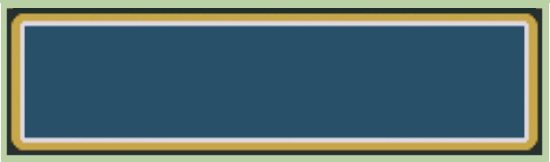
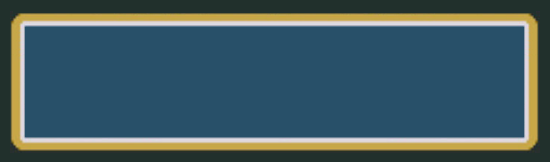
Add player sprint, fix fights with Garry and modify fight interaction background

Changed region(s): [[0.0, 0.0, 1.0, 1.0]]

diff --git a/icmon/src/main/java/ch/epfl/cs107/icmon/graphics/ICMonFightTextGraphics.java b/icmon/src/main/java/ch/epfl/cs107/icmon/graphics/ICMonFightTextGraphics.java
@@ -24,7 +24,7 @@ public final class ICMonFightTextGraphics extends ICMonFightInteractionGraphics 
         super(scaleFactor);
         // HR : Prepare the lines
         lines = new GraphicsEntity[2];
-        lines[0] = new GraphicsEntity(new Vector(1.5f, scaleFactor / 3 - 2f * FONT_SIZE), new TextGraphics("", FONT_SIZE, Color.WHITE, null, 0.0f, false, false, Vector.ZERO, TextAlign.Horizontal.LEFT, TextAlign.Vertical.MIDDLE,  1.0f, 1003));
+        lines[0] = new GraphicsEntity(new Vector(1.5f, scaleFactor / 3 - 2f * FONT_SIZE), new TextGraphics("", FONT_SIZE, Color.WHITE, null, 0.0f, false, false, Vector.ZERO, TextAlign.Horizontal.LEFT, TextAlign.Vertical.MIDDLE, 1.0f, 1003));
         lines[1] = new GraphicsEntity(new Vector(1.5f, scaleFactor / 3 - 4f * FONT_SIZE), new TextGraphics("", FONT_SIZE, Color.WHITE, null, 0.0f, false, false, Vector.ZERO, TextAlign.Horizontal.LEFT, TextAlign.Vertical.MIDDLE, 1.0f, 1003));
         // HR : Fill the placeholders with the actual text
         textInPlaceholders(text);
@@ -42,35 +42,34 @@ public final class ICMonFightTextGraphics extends ICMonFightInteractionGraphics 
     // ==================================== UTILITY FUNCTIONS =====================================
     // ============================================================================================
 
-    private void textInPlaceholders(String text){
-        if(text == null)
+    private void textInPlaceholders(String text) {
+        if (text == null)
             text = "";
         var cursor = 0;
-        var lengthToPush = text.length()-cursor;
+        var lengthToPush = text.length() - cursor;
         // For each line
-        for(int i = 0; i<2; i++){
+        for (int i = 0; i < 2; i++) {
             // If some text still need to be pushed : fill the next line
-            if(lengthToPush <= 0)
-                ((TextGraphics)lines[i].getGraphics()).setText("");
-            else if(lengthToPush <= MAX_LINE_SIZE) {
-                ((TextGraphics)lines[i].getGraphics()).setText(text.substring(cursor));
+            if (lengthToPush <= 0)
+                ((TextGraphics) lines[i].getGraphics()).setText("");
+            else if (lengthToPush <= MAX_LINE_SIZE) {
+                ((TextGraphics) lines[i].getGraphics()).setText(text.substring(cursor));
                 cursor += lengthToPush;
-            }
-            else{
+            } else {
                 var maxSize = MAX_LINE_SIZE;
                 var toConcat = "";
-                if(i == 1){
+                if (i == 1) {
                     maxSize -= 4;
                     toConcat += " ...";
                 }
-                var sub = text.substring(cursor, cursor+maxSize+1);
+                var sub = text.substring(cursor, cursor + maxSize + 1);
                 var last = sub.lastIndexOf(' ');
-                if(last == -1)
+                if (last == -1)
                     System.out.println("Error: You get a Word longer than " + MAX_LINE_SIZE);
-                ((TextGraphics)lines[i].getGraphics()).setText(sub.substring(0, last)+toConcat);
-                cursor = cursor+last+1;
+                ((TextGraphics) lines[i].getGraphics()).setText(sub.substring(0, last) + toConcat);
+                cursor = cursor + last + 1;
             }
-            lengthToPush = text.length()-cursor;
+            lengthToPush = text.length() - cursor;
         }
     }
 

diff --git a/icmon/src/main/java/ch/epfl/cs107/icmon/actor/ICMonPlayer.java b/icmon/src/main/java/ch/epfl/cs107/icmon/actor/ICMonPlayer.java
@@ -36,10 +36,12 @@ public final class ICMonPlayer extends ICMonActor implements Interactor {
     /**
      * ???
      */
-    private final static int MOVE_DURATION = 2;
+    private final static int WALK_MOVE_DURATION = 3;
+    private final static int SPRINT_MOVE_DURATION = 2;
     private final static int ANIMATION_DURATION = 4;
 
     private final OrientedAnimation walkSprite;
+    private final OrientedAnimation sprintSprite;
     private final OrientedAnimation surfSprite;
     private final ICMonPlayerInteractionHandler handler = new ICMonPlayerInteractionHandler();
     private final ICMon.ICMonGameState game;
@@ -49,6 +51,7 @@ public final class ICMonPlayer extends ICMonActor implements Interactor {
      * ???
      */
     private OrientedAnimation currentSprite;
+    private boolean isSprinting = false;
 
     /**
      * ???
@@ -60,13 +63,16 @@ public final class ICMonPlayer extends ICMonActor implements Interactor {
     public ICMonPlayer(Area owner, Orientation orientation, DiscreteCoordinates coordinates, ICMon.ICMonGameState game) {
         super(owner, orientation, coordinates);
         walkSprite = new OrientedAnimation("actors/player", ANIMATION_DURATION / 2, getOrientation(), this);
+        sprintSprite = new OrientedAnimation("actors/player_sprint", ANIMATION_DURATION / 2, getOrientation(), this);
         surfSprite = new OrientedAnimation("actors/player_water", ANIMATION_DURATION / 2, getOrientation(), this);
         currentSprite = walkSprite;
         resetMotion();
 
         this.game = game;
-        //pokemons.add(new Bulbizarre(getOwnerArea(), Orientation.DOWN, new DiscreteCoordinates(100, 100)));
-        //pokemons.add((new Latios(getOwnerArea(), Orientation.DOWN, new DiscreteCoordinates(105,105))));
+    }
+
+    private void setSprite(OrientedAnimation sprite) {
+        currentSprite = sprite;
     }
 
     public boolean givePokemon(Pokemon pokemon) {
@@ -94,6 +100,7 @@ public final class ICMonPlayer extends ICMonActor implements Interactor {
             return;
         }
 
+        isSprinting = keyboard.get(Keyboard.S).isDown();
         moveIfPressed(Orientation.LEFT, keyboard.get(Keyboard.LEFT));
         moveIfPressed(Orientation.UP, keyboard.get(Keyboard.UP));
         moveIfPressed(Orientation.RIGHT, keyboard.get(Keyboard.RIGHT));
@@ -160,7 +167,7 @@ public final class ICMonPlayer extends ICMonActor implements Interactor {
         if (b.isDown()) {
             if (!isDisplacementOccurs()) {
                 orientate(orientation);
-                move(MOVE_DURATION);
+                move(isSprinting ? SPRINT_MOVE_DURATION : WALK_MOVE_DURATION);
             }
         }
     }
@@ -187,8 +194,8 @@ public final class ICMonPlayer extends ICMonActor implements Interactor {
             // Close range interaction
             if (isCellInteraction) {
                 switch (cell.getWalkingType()) {
-                    case SURF -> currentSprite = surfSprite;
-                    case FEET -> currentSprite = walkSprite;
+                    case SURF -> setSprite(surfSprite);
+                    case FEET -> setSprite(isSprinting ? sprintSprite : walkSprite);
                     // default : Keep current sprite
                 }
                 currentSprite.orientate(getOrientation());

diff --git a/icmon/src/main/java/ch/epfl/cs107/icmon/gamelogic/fights/ICMonFight.java b/icmon/src/main/java/ch/epfl/cs107/icmon/gamelogic/fights/ICMonFight.java
@@ -61,7 +61,7 @@ public class ICMonFight extends PauseMenu {
                 // TODO: Execute action
                 final boolean hasSucceeded = nextPlayerAction.doAction(opponentPokemon);
                 // The player has won
-                if (opponentPokemon.properties().hp() <= 0) {
+                if (opponentPokemon.isKO()) {
                     state = FightState.ENDING;
                     drawText("The player has won the fight!");
                     break;
@@ -90,7 +90,7 @@ public class ICMonFight extends PauseMenu {
                     }
 
                     // The pokemon of the player is KO
-                    if (opponentPokemon.properties().hp() <= 0) {
+                    if (playerPokemon.isKO()) {
                         state = FightState.ENDING;
                         drawText("The opponent has won the fight!");
                         break;

diff --git a/icmon/src/main/java/ch/epfl/cs107/icmon/graphics/ICMonFightInteractionGraphics.java b/icmon/src/main/java/ch/epfl/cs107/icmon/graphics/ICMonFightInteractionGraphics.java
@@ -16,7 +16,8 @@ public abstract class ICMonFightInteractionGraphics implements Graphics {
     private final ImageGraphics background;
 
     protected ICMonFightInteractionGraphics(float scaleFactor){
-        background = new ImageGraphics(getBackground("fight_interaction_background"), scaleFactor, scaleFactor / 3);
+        background = new ImageGraphics(getBackground("fight_interaction_background"), scaleFactor,
+                scaleFactor / 3);
     }
 
     @Override

diff --git a/icmon/src/main/java/ch/epfl/cs107/icmon/handler/ICMonInteractionVisitor.java b/icmon/src/main/java/ch/epfl/cs107/icmon/handler/ICMonInteractionVisitor.java
@@ -37,8 +37,6 @@ public interface ICMonInteractionVisitor extends AreaInteractionVisitor {
 
     default void interactWith(ProfOak profOak, boolean isCellInteraction) {}
 
-    default void interactWith(Garry garry, boolean isCellInteraction) {}
-
     default void interactWith(Trainer trainer, boolean isCellInteraction) {}
 
 
